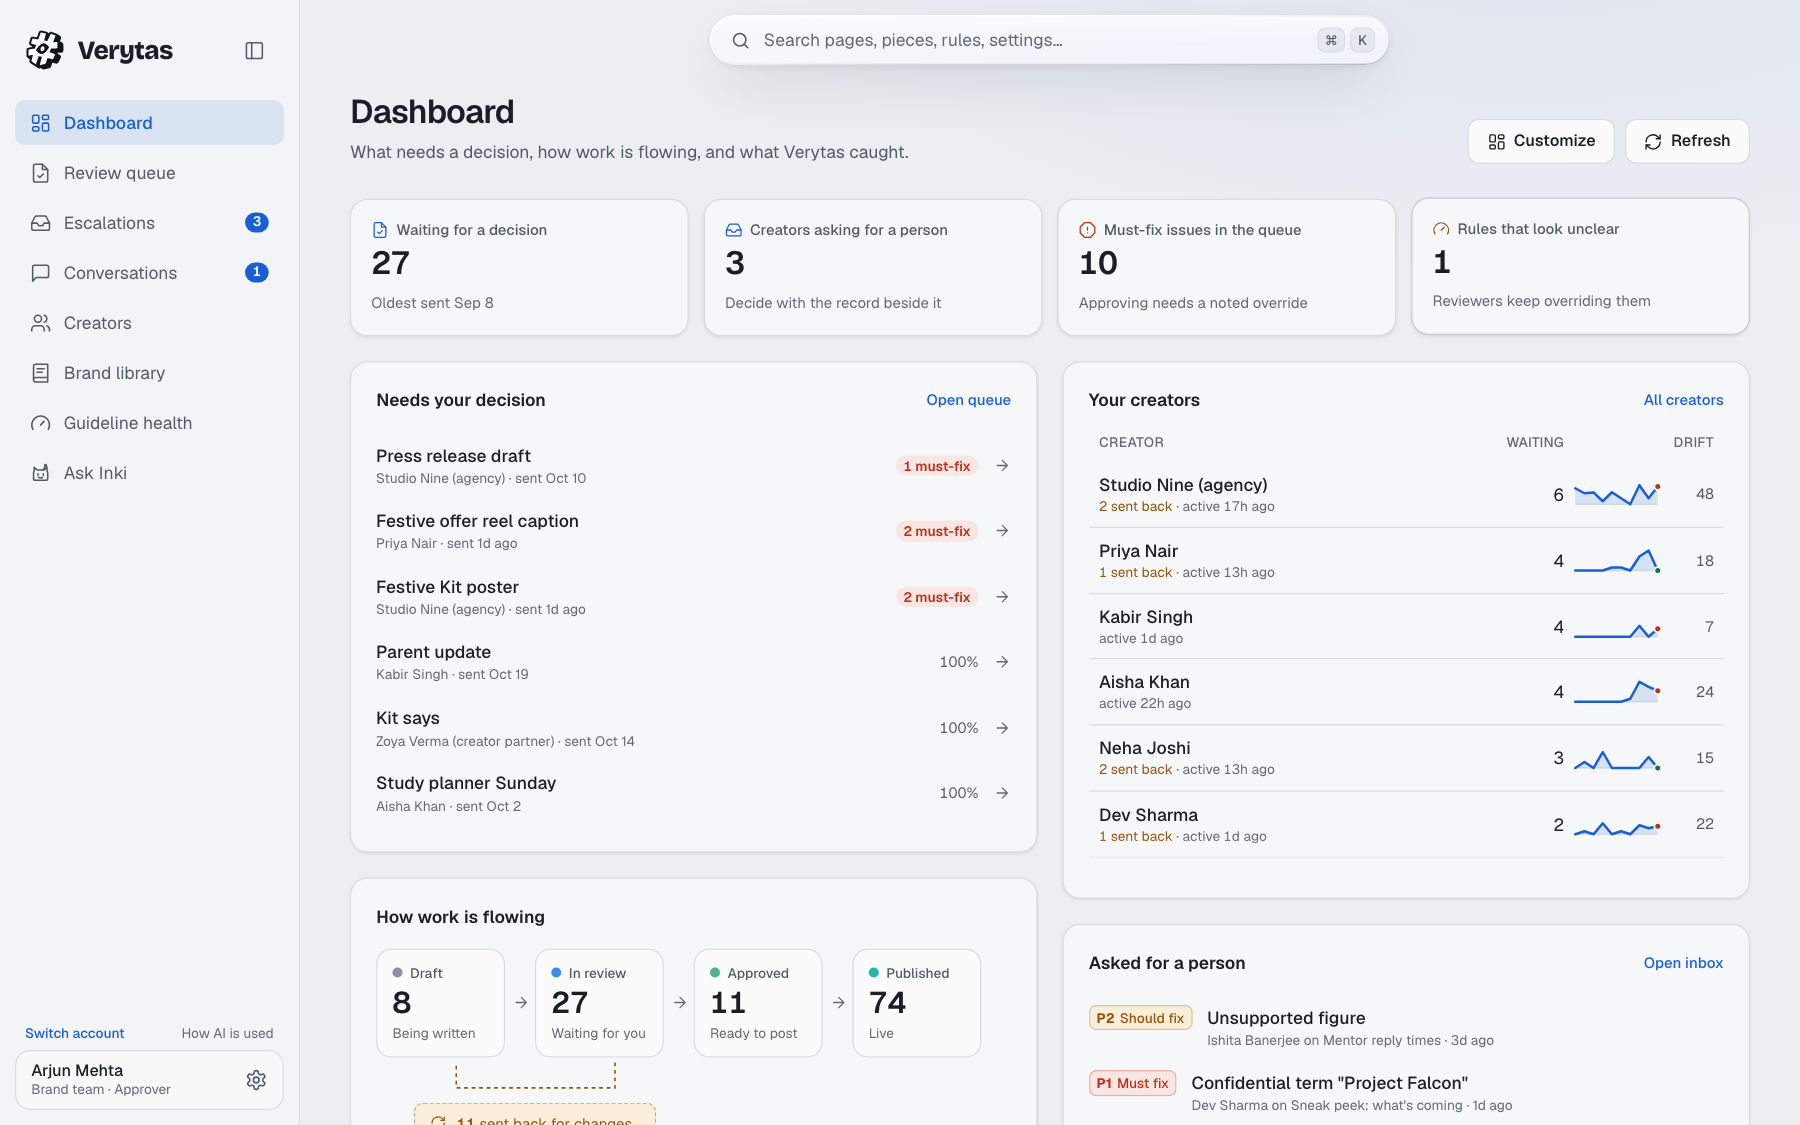
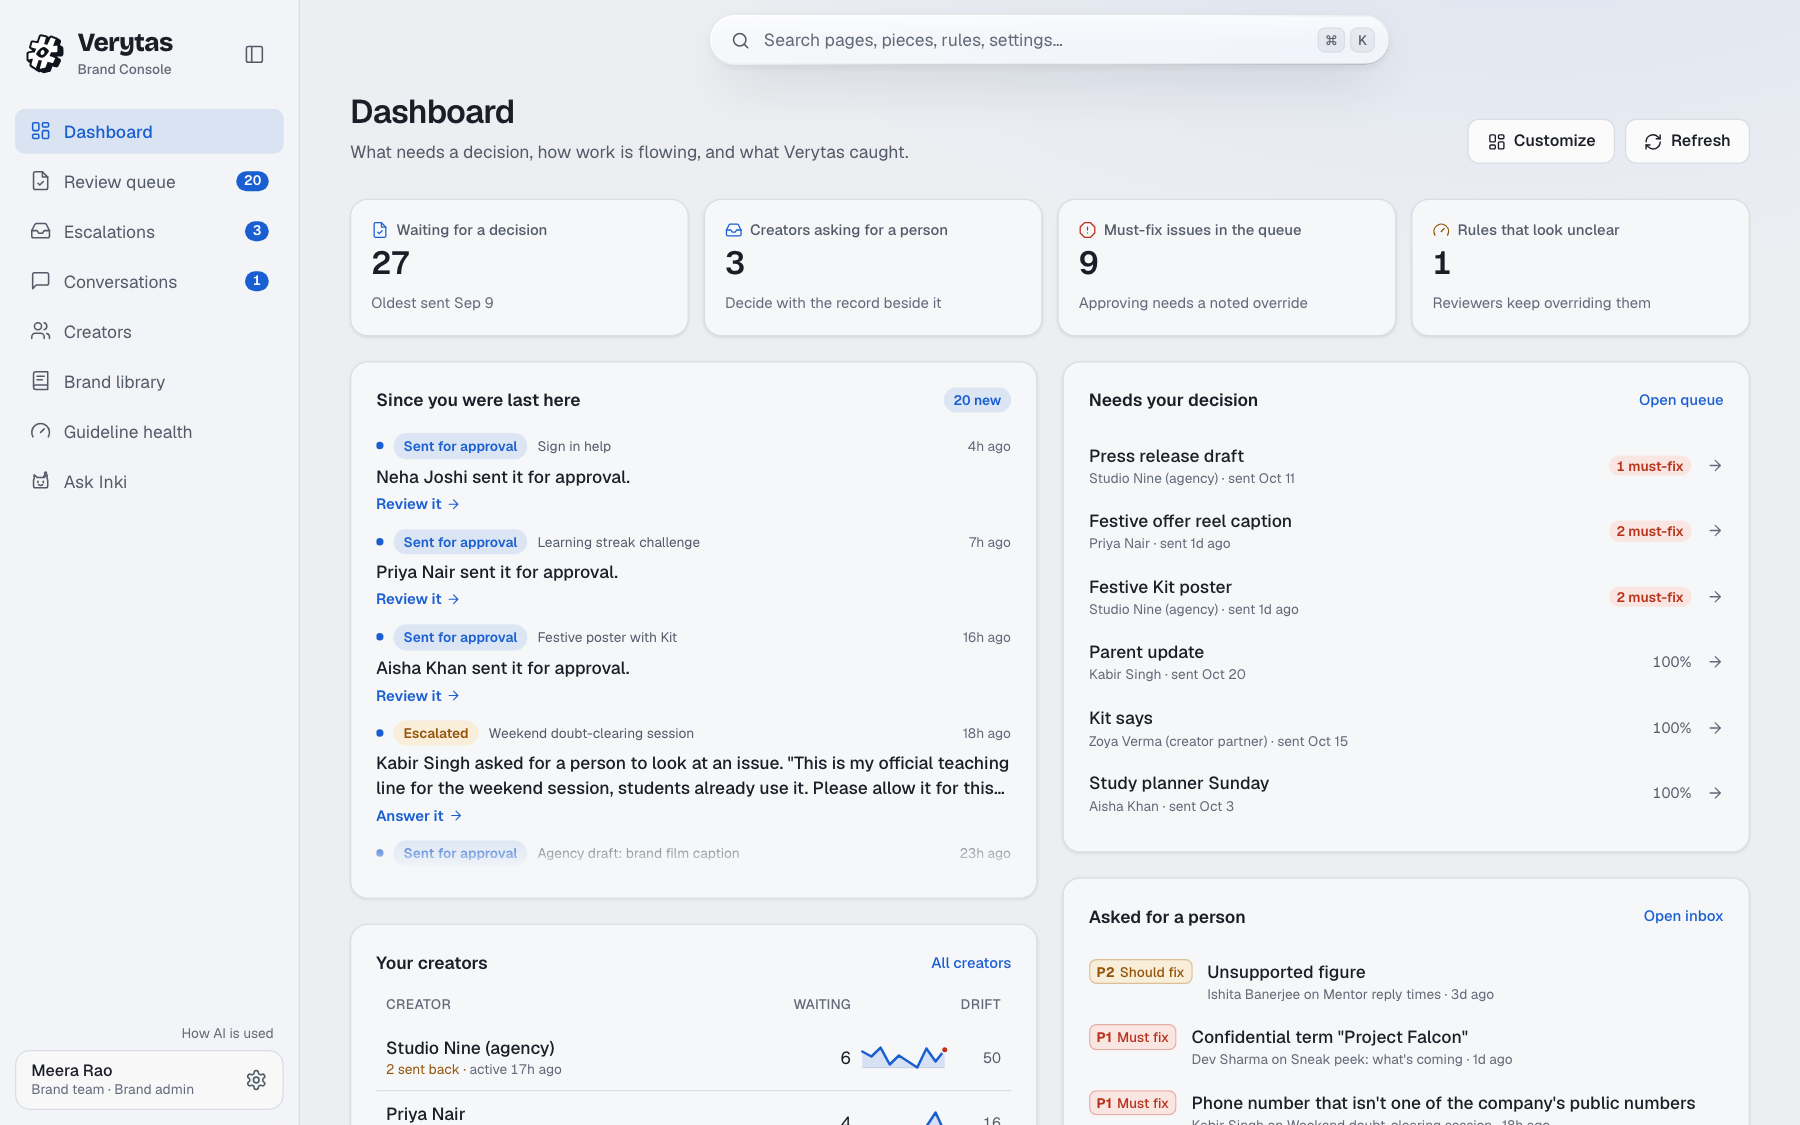
docs: dashboards as they are now, news beside what needs a decision
Taken from a fresh clone of the repository run as the README says.

diff --git a/README.md b/README.md
@@ -54,7 +54,7 @@ A brand works with dozens of creators and agencies who post every day, in many l
 2. As **Dev Sharma** (creator), open *My reviews*, paste a caption like *"Kitepath has 2 million learners. Guaranteed results!"* and run it. The claim is checked against the approved fact (1.2 million), a fix appears, and the promise is flagged. Apply the fixes and send it for approval.
 3. Use **Switch account** to become **Arjun Mehta** (brand team). Your piece is now in the review queue, ranked by what needs attention first. Approve it, or send it back with a note.
 
-<p align="center"><img src="docs/assets/dashboard.png" alt="The brand team's dashboard: pieces waiting for a decision, creators, escalations and how work is flowing" width="900"></p>
+<p align="center"><img src="docs/assets/dashboard.png" alt="The brand team's dashboard: what changed since you were last here beside the pieces that need a decision, the people asking for a person, creators and how work is flowing" width="900"></p>
 
 <p align="center"><img src="docs/assets/tour.png" alt="The guided tour on a first visit: the Review queue in the sidebar is lit, and a card beside it, step 3 of 10, says what the queue is for and how videos and images are marked, with Skip, Back and Next" width="900"></p>
 
